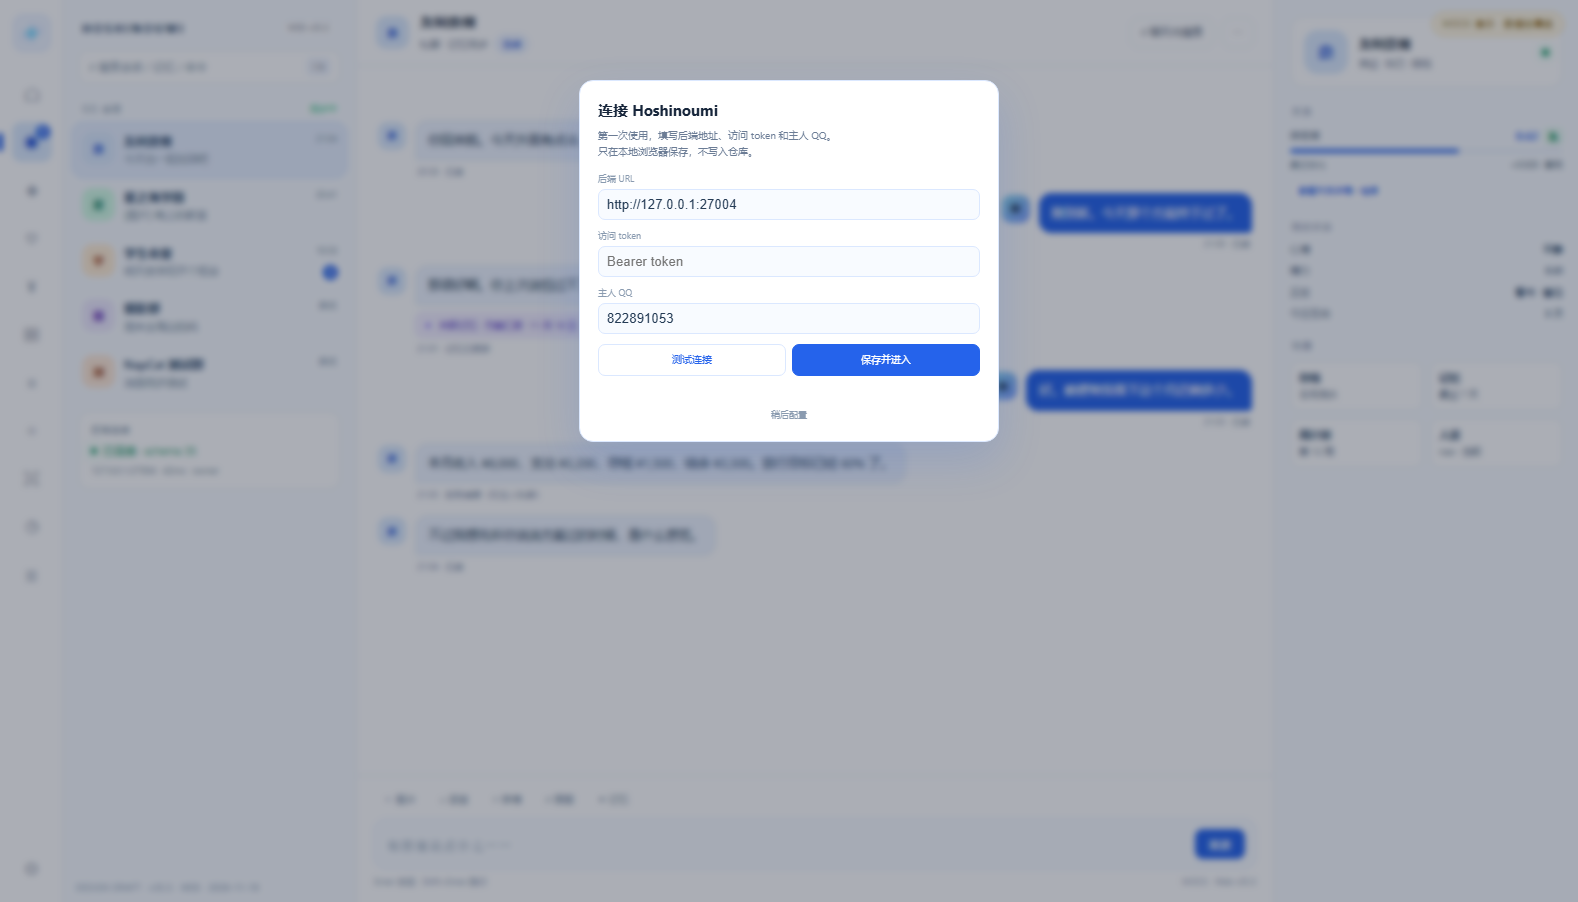
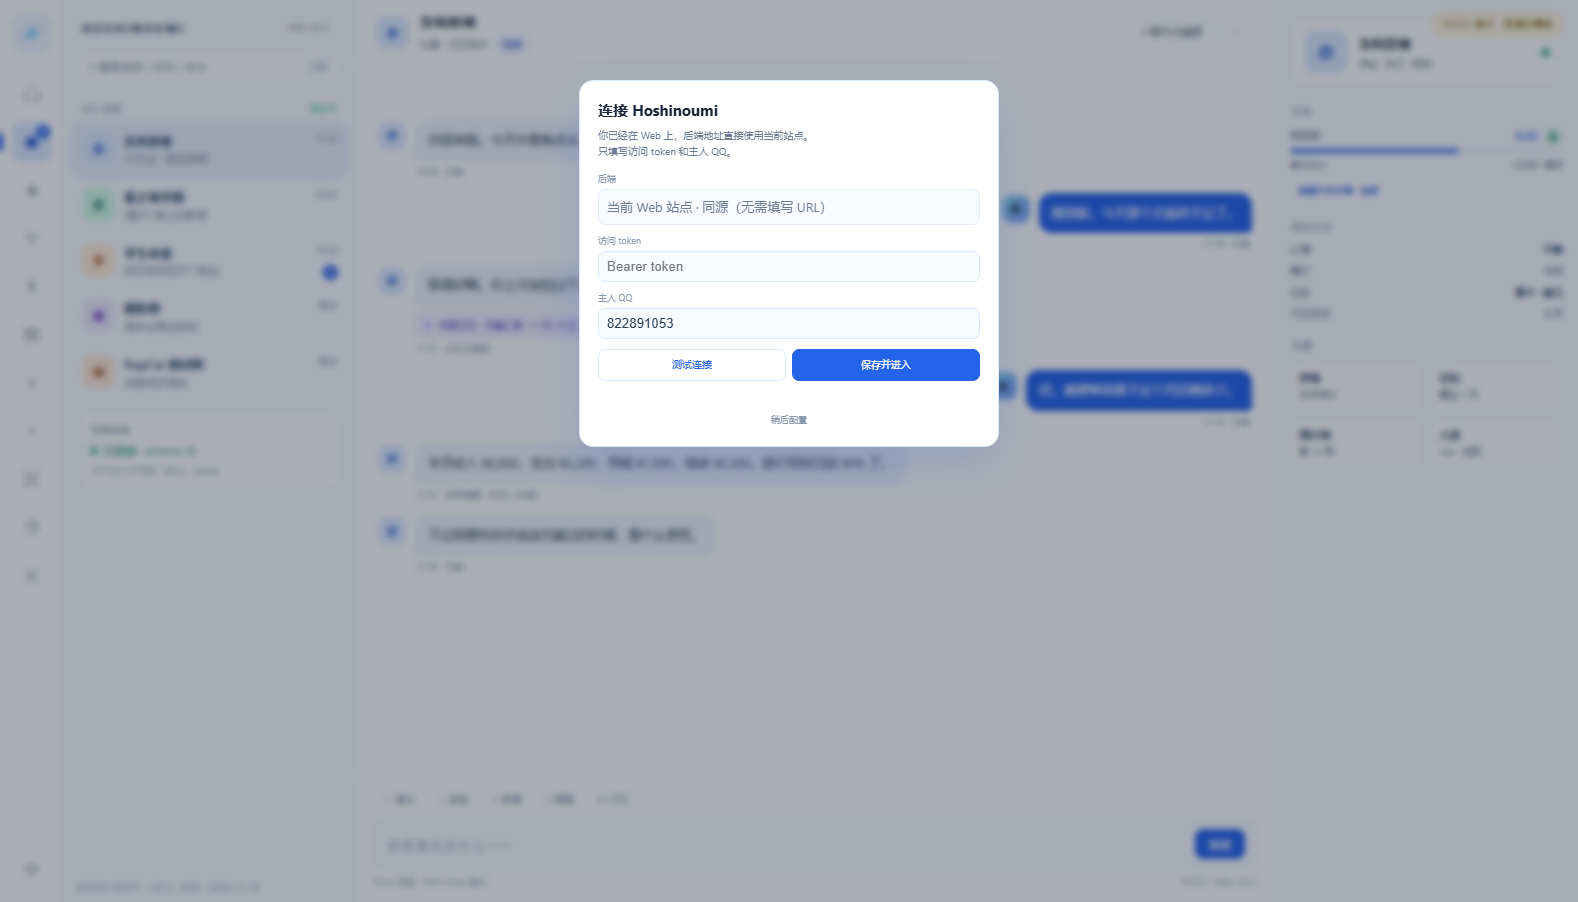
fix(v35.5): 登录不再填写后端 URL

Changed region(s): [[0.3726, 0.2173, 0.621, 0.4346], [0.3726, 0.4656, 0.621, 0.4967], [0.3726, 0.1242, 0.5279, 0.1863]]

diff --git a/docs/design/v35/web/demo.js b/docs/design/v35/web/demo.js
@@ -190,6 +190,7 @@
     .login-field{margin-bottom:9px}.login-field label{display:block;font-size:9px;color:#8a9bb0;margin-bottom:3px}
     .login-field input{width:100%;border:1px solid #dbe8ff;border-radius:7px;background:#f8fbff;color:#243b55;font:10.5px inherit;outline:0;padding:7px 8px}
     .login-field input:focus{border-color:#93b7fa;box-shadow:0 0 0 3px rgba(37,99,235,.08)}
+    .login-url{border:1px solid #e3ebf7;border-radius:7px;background:#f8fbff;color:#6b7c95;font:10px inherit;padding:7px 8px}
     .login-actions{display:flex;gap:6px;margin-top:10px}.login-actions button{flex:1;border:1px solid #dbe8ff;border-radius:7px;background:#fff;color:#2563eb;font-size:10px;padding:7px;cursor:pointer}
     .login-actions button.primary{background:#2563eb;border-color:#2563eb;color:#fff}.login-actions button:hover{filter:brightness(.97)}
     .login-status{font-size:9px;color:#8a9bb0;margin-top:8px;min-height:14px}
@@ -299,8 +300,8 @@
       const saved = (() => { try { return JSON.parse(localStorage.getItem('hsh_web_login') || '{}'); } catch { return {}; } })();
       loginMask = document.createElement('div');
       loginMask.className = 'login-mask';
-      loginMask.innerHTML = '<div class="login-card"><h2>连接 Hoshinoumi</h2><div class="sub">第一次使用，填写后端地址、访问 token 和主人 QQ。<br>只在本地浏览器保存，不写入仓库。</div>' +
-        '<div class="login-field"><label>后端 URL</label><input id="loginUrl" value="' + esc(saved.url || 'http://127.0.0.1:27004') + '" placeholder="http://127.0.0.1:27004"></div>' +
+      loginMask.innerHTML = '<div class="login-card"><h2>连接 Hoshinoumi</h2><div class="sub">你已经在 Web 上，后端地址直接使用当前站点。<br>只填写访问 token 和主人 QQ。</div>' +
+        '<div class="login-field"><label>后端</label><div class="login-url">当前 Web 站点 · 同源（无需填写 URL）</div></div>' +
         '<div class="login-field"><label>访问 token</label><input id="loginToken" type="password" value="' + esc(saved.token || '') + '" placeholder="Bearer token"></div>' +
         '<div class="login-field"><label>主人 QQ</label><input id="loginQQ" value="' + esc(saved.qq || '822891053') + '" placeholder="822891053"></div>' +
         '<div class="login-actions"><button id="loginTest">测试连接</button><button class="primary" id="loginSave">保存并进入</button></div>' +
@@ -308,21 +309,20 @@
       document.body.appendChild(loginMask);
       document.getElementById('loginSkip').addEventListener('click', () => loginMask.classList.remove('on'));
       document.getElementById('loginTest').addEventListener('click', () => {
-        const url = document.getElementById('loginUrl').value.trim();
-        const st = document.getElementById('loginStatus');
-        st.textContent = /^https?:\/\//i.test(url) ? '连接成功（MOCK）· 42ms' : 'URL 需要以 http:// 或 https:// 开头';
-      });
-      document.getElementById('loginSave').addEventListener('click', () => {
-        const url = document.getElementById('loginUrl').value.trim();
         const token = document.getElementById('loginToken').value.trim();
         const qq = document.getElementById('loginQQ').value.trim();
         const st = document.getElementById('loginStatus');
-        if (!/^https?:\/\//i.test(url)) { st.textContent = '后端 URL 不合法'; return; }
+        st.textContent = token && qq ? '连接成功（MOCK）· 42ms' : 'token 和 QQ 都要填';
+      });
+      document.getElementById('loginSave').addEventListener('click', () => {
+        const token = document.getElementById('loginToken').value.trim();
+        const qq = document.getElementById('loginQQ').value.trim();
+        const st = document.getElementById('loginStatus');
         if (!token || !qq) { st.textContent = 'token 和 QQ 都要填'; return; }
-        localStorage.setItem('hsh_web_login', JSON.stringify({ url, token, qq }));
+        localStorage.setItem('hsh_web_login', JSON.stringify({ token, qq }));
         loginMask.classList.remove('on');
         toast('已保存登录配置（MOCK）');
-        updateConn(url, qq);
+        updateConn('当前 Web 站点', qq);
       });
     }
     loginMask.classList.add('on');
@@ -331,7 +331,7 @@
     const v = document.querySelector('.conn .v');
     const meta = document.querySelector('.conn .meta');
     if (v) v.innerHTML = '<span class="dot"></span> 已连接 · schema 35';
-    if (meta) meta.textContent = (url || '127.0.0.1:27004').replace(/^https?:\/\//, '') + ' · 42ms · owner ' + (qq || '');
+    if (meta) meta.textContent = '当前 Web 站点 · 42ms · owner ' + (qq || '');
   }
 
   function msgHtml(x) {
@@ -472,7 +472,7 @@
     if (name === 'settings') {
       let saved = {}; try { saved = JSON.parse(localStorage.getItem('hsh_web_login') || '{}'); } catch {}
       pageView.innerHTML = '<div class="page-head"><div><h2>设置</h2><p>v35.5 Web 演示 · 登录 / 后端 / 连接</p></div><button class="back" id="backChat">← 返回聊天</button></div>' +
-        '<div class="info-grid"><div class="info-panel"><h3>登录配置</h3><div class="info-row"><span>后端 URL</span><b>' + esc(saved.url || 'http://127.0.0.1:27004') + '</b></div><div class="info-row"><span>token</span><b>' + (saved.token ? '已保存 · 掩码' : '未配置') + '</b></div><div class="info-row"><span>主人 QQ</span><b>' + esc(saved.qq || '822891053') + '</b></div><div class="info-row"><span>操作</span><b><button class="back" id="relogin">登录 / 重新配置</button></b></div></div>' +
+        '<div class="info-grid"><div class="info-panel"><h3>登录配置</h3><div class="info-row"><span>后端</span><b>' + esc(location.origin === 'null' ? '当前 Web 站点' : location.origin) + ' · 同源</b></div><div class="info-row"><span>token</span><b>' + (saved.token ? '已保存 · 掩码' : '未配置') + '</b></div><div class="info-row"><span>主人 QQ</span><b>' + esc(saved.qq || '822891053') + '</b></div><div class="info-row"><span>操作</span><b><button class="back" id="relogin">登录 / 重新配置</button></b></div></div>' +
         '<div class="info-panel"><h3>连接</h3><div class="info-row"><span>状态</span><b class="ok">已连接 · MOCK</b></div><div class="info-row"><span>schema</span><b>35</b></div><div class="info-row"><span>延迟</span><b>42ms</b></div></div></div>';
       [top, msgs, composer, searchBar].forEach(x => x.classList.add('chat-hide'));
       pageView.classList.add('on');

diff --git a/docs/design/v35/web/hoshinoumi-web-v35.5.html b/docs/design/v35/web/hoshinoumi-web-v35.5.html
@@ -405,6 +405,6 @@ button{color:inherit}
   </aside>
 </div>
 <div class="tagdraft">DESIGN DRAFT · v35.5 · WEB · 2026-11-19</div>
-<script src="demo.js?v=35.5.31"></script>
+<script src="demo.js?v=35.5.33"></script>
 </body>
 </html>

diff --git a/docs/versions/v35.md b/docs/versions/v35.md
@@ -357,7 +357,7 @@ HTML：解析 #KebiaoTable1 的 SjdXY 与 dl/dt/dd
 | **v35.4.18.0** | VS Code 关系页与错误态 | 目标列表来自 `/internal/conversations`；owner 全量、普通用户只看自己；未配置/断线显示配置 CTA，不直接抛裸错误 | 未配置不再只显示“加载失败” |
 | **v35.4.19.0** | VS Code 数据页补齐 | 存钱 CSV/JSON 导入；周计划 HTML/CSV 导入；人设导入/导出；只读预览 | 与 DSH 功能对齐 |
 | **v35.4.20.0** | VS Code 全功能验收 / 打包 | 12 导航回放；Mock 标注；断线/空态；VSIX 重打包 | 可安装验收 |
-| **v35.5.0.0** | Web 基座：Vue 3 + Vite、主题 token、首次登录 | 首次弹 URL/token/主人 QQ；测试连接；保存并进入；稍后配置；Bearer | 浏览器能登录 |
+| **v35.5.0.0** | Web 基座：Vue 3 + Vite、主题 token、首次登录 | 首次弹 token/主人 QQ；后端默认同源，不填 URL；测试连接；保存并进入；稍后配置 | 浏览器能登录 |
 | **v35.5.1.0** | QQ 会话列表 + 历史消息 | 只列 QQ 私聊/群；群名/成员/未读；分页/已读位点 | 群列表与 QQ 一致，能拉历史 |
 | **v35.5.2.0** | 文本发送 + 乐观更新 | REST + 幂等；失败回滚；防重复 | 能聊天 |
 | **v35.5.3.0** | 图片发送 / 预览 | 上传/本地预览/acg/clip | 图片能收发 |

diff --git a/docs/design/v35/web/DEVELOPMENT.md b/docs/design/v35/web/DEVELOPMENT.md
@@ -184,7 +184,7 @@ dimensions: [{key,label,value,visible}]
 第一次打开没有本地登录配置时，弹窗：
 
 ```text
-后端 URL（默认 http://127.0.0.1:27004）
+后端：当前 Web 站点同源，不填 URL
 访问 token
 主人 QQ
 测试连接
@@ -198,7 +198,7 @@ dimensions: [{key,label,value,visible}]
 
 | 版本 | 交付 | 验收 |
 |---|---|---|
-| v35.5.0.0 | Vue 基座、ThemeToken/MotionPreset、首次登录 URL/token/QQ | 浏览器能登录 |
+| v35.5.0.0 | Vue 基座、ThemeToken/MotionPreset、首次登录 token/QQ（后端同源） | 浏览器能登录 |
 | v35.5.1.0 | QQ 会话列表、历史分页、已读位点 | 群列表与 QQ 一致 |
 | v35.5.2.0 | 文本发送、乐观更新、失败回滚、幂等 | 能聊天 |
 | v35.5.3.0 | 图片发送/预览、上传 | 图片可用 |
